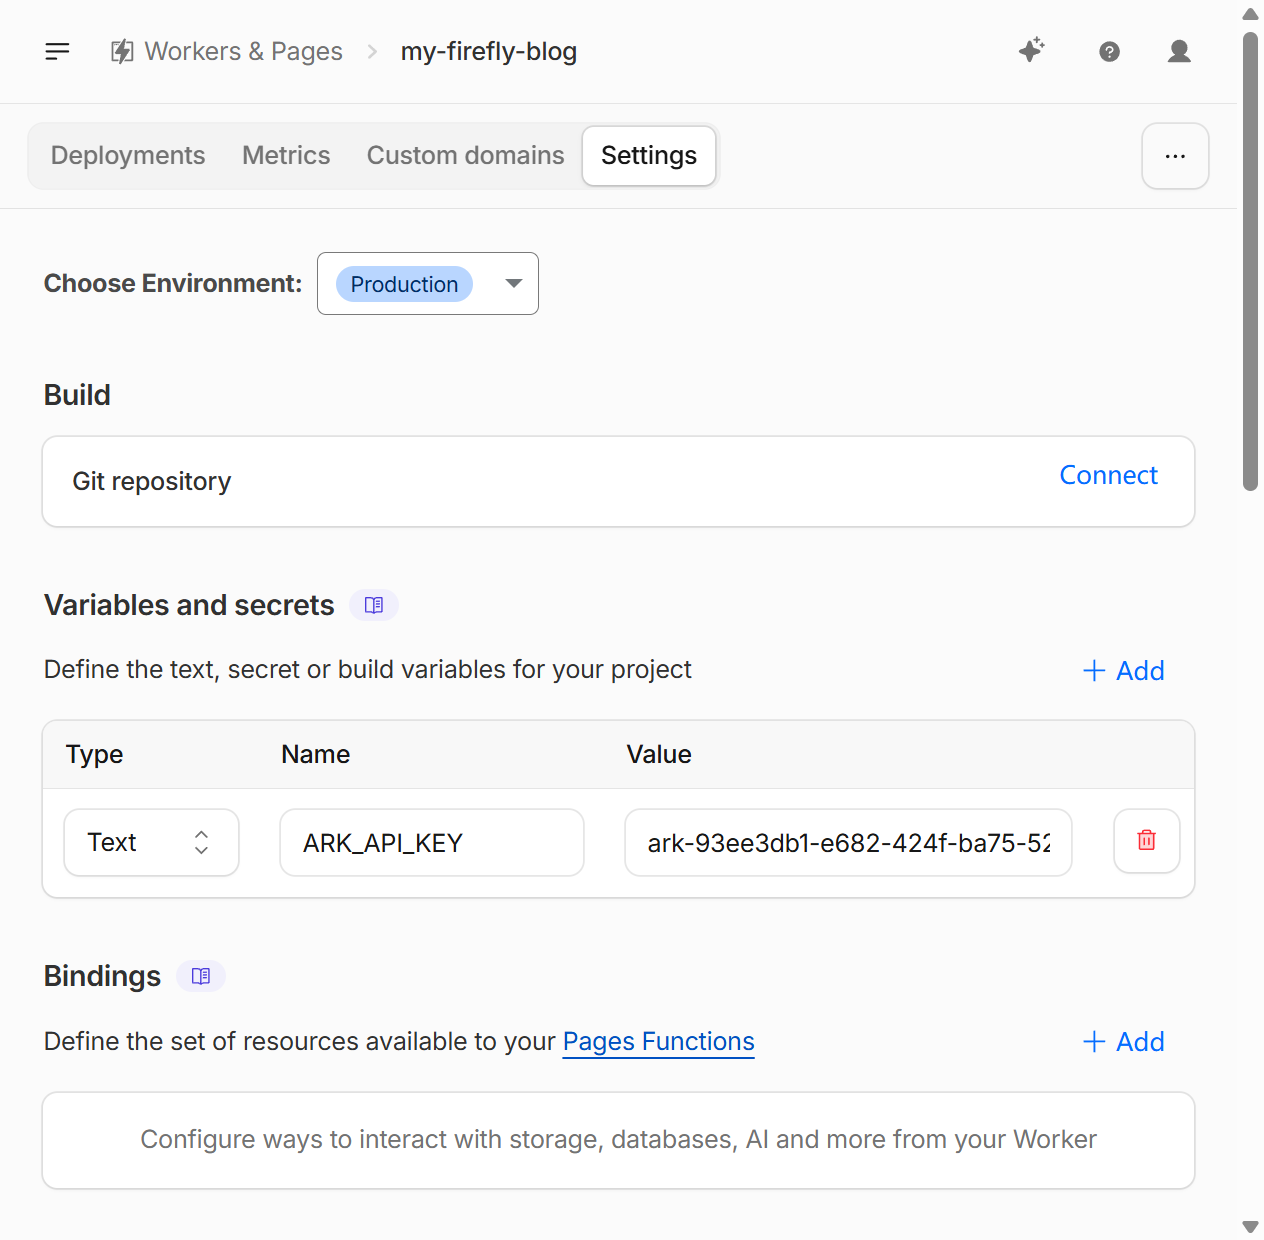
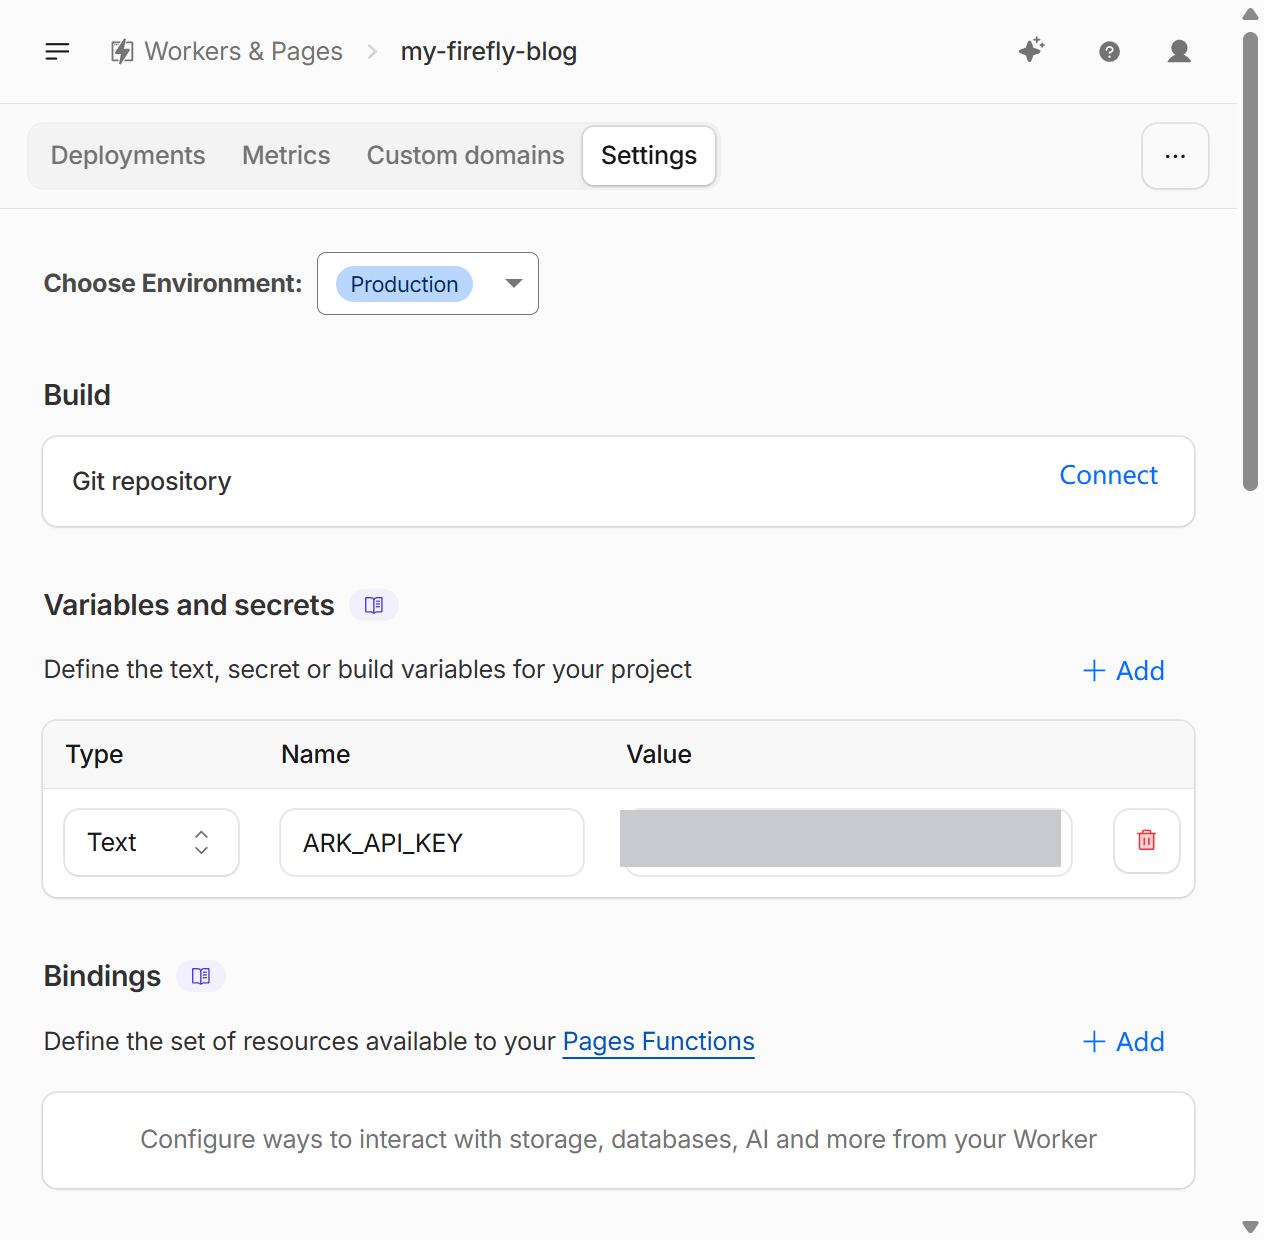
docs: 验证节去括号提示/目录标题精简/去加粗/补Giscus理由，cf-env图API key打码

Changed region(s): [[0.4937, 0.6435, 0.8639, 0.7048]]

diff --git a/src/content/posts/从Hexo迁移到Astro部署记录.md b/src/content/posts/从Hexo迁移到Astro部署记录.md
@@ -164,7 +164,14 @@ export const decorationConfig = {
 
 #### 六、评论系统：Giscus
 
-评论用的是 **Giscus**（基于 GitHub Discussions，免费、无广告、数据在自己仓库里）。接入步骤：
+评论用的是 **Giscus**。为什么选它而不是别的评论方案：
+
+- **免费无广告**：基于 GitHub Discussions，不用付费、没有第三方评论系统的广告；
+- **数据在自己仓库**：所有评论都存在博客仓库的 Discussions 里，跟着仓库走，换平台不丢；
+- **不用自己搭服务器**：纯静态方案，访客用 GitHub 账号登录即可评论（没有账号也能看）；
+- **防刷屏**：配成 Announcements 分类后只有管理员能开新讨论，访客只能回复，评论区干净。
+
+对比过的其他方案：自建评论（要服务器和维护）、第三方评论系统（有广告、数据在别人那、部分收费）——都不如 Giscus 省心。接入步骤：
 
 1. **开启 Discussions**：仓库 `Settings → Features → Discussions` 勾选开启。开启后仓库导航栏会出现 Discussions 入口：
 
@@ -532,9 +539,9 @@ starlight({
 
 > **导航名和 URL 为什么分开**：`title` 显示"知识库"，但访问路径是 `/kb/`——短路径好记、输入方便，导航名和 URL 互不绑定，改名字不用动链接。
 
-##### 3. 内容目录：四科 26 章
+##### 3. 内容目录
 
-知识库内容在 `src/content/docs/`，按"知识库 → 考研 → 科目 → 章节"建文件夹，四科章节目录**按王道《408 考研复习指导》建**：
+知识库内容在 `src/content/docs/`，按"知识库 → 考研 → 科目 → 章节"建文件夹，四科章节目录按王道《408 考研复习指导》建：
 
 ```text
 src/content/docs/kb/
@@ -681,7 +688,7 @@ const links = config.social || [];
 pnpm dev
 ```
 
-浏览器打开 `https://my-firefly-blog.pages.dev/kb/`（部署后线上验证，本地预览用 `http://localhost:4321/kb/`）：左侧目录树（知识库 → 考研 → 四科 → 26 章）、每页 TOC、暗色模式都正常。
+浏览器打开 `https://my-firefly-blog.pages.dev/kb/`：左侧目录树（知识库 → 考研 → 四科 → 26 章）、每页 TOC、暗色模式都正常。
 
 ![知识库左侧目录树：知识库 → 考研 → 四科 26 章](/assets/blog-migrate/kb-sidebar.png)以后写笔记：`src/content/docs/kb/考研/操作系统/` 里新建 `第6章-xxx.md` → `git push` → 侧边栏自动多出一节，不用改任何配置。
 
